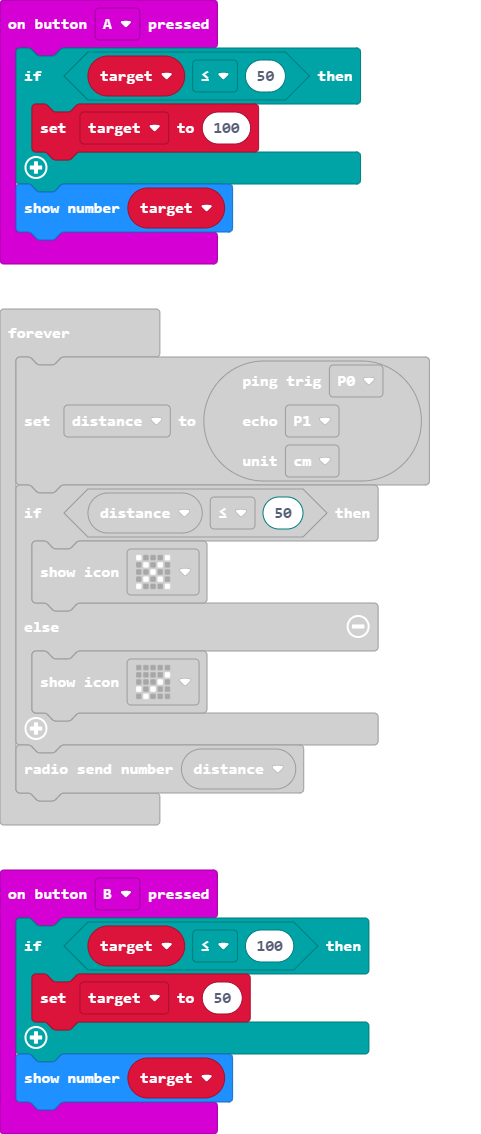
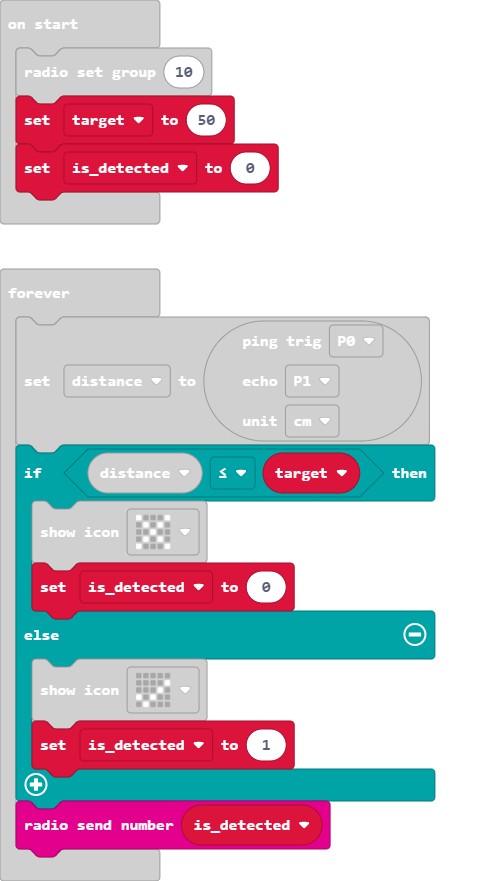
Update pxt.json, main.blocks, main.ts

diff --git a/main.ts b/main.ts
@@ -13,16 +13,20 @@ input.onButtonPressed(Button.B, function () {
 let distance = 0
 let target = 0
 radio.setGroup(10)
+target = 50
+let is_detected = 0
 basic.forever(function () {
     distance = sonar.ping(
     DigitalPin.P0,
     DigitalPin.P1,
     PingUnit.Centimeters
     )
-    if (distance <= 50) {
+    if (distance <= target) {
         basic.showIcon(IconNames.No)
+        is_detected = 0
     } else {
         basic.showIcon(IconNames.Yes)
+        is_detected = 1
     }
-    radio.sendNumber(distance)
+    radio.sendNumber(is_detected)
 })
